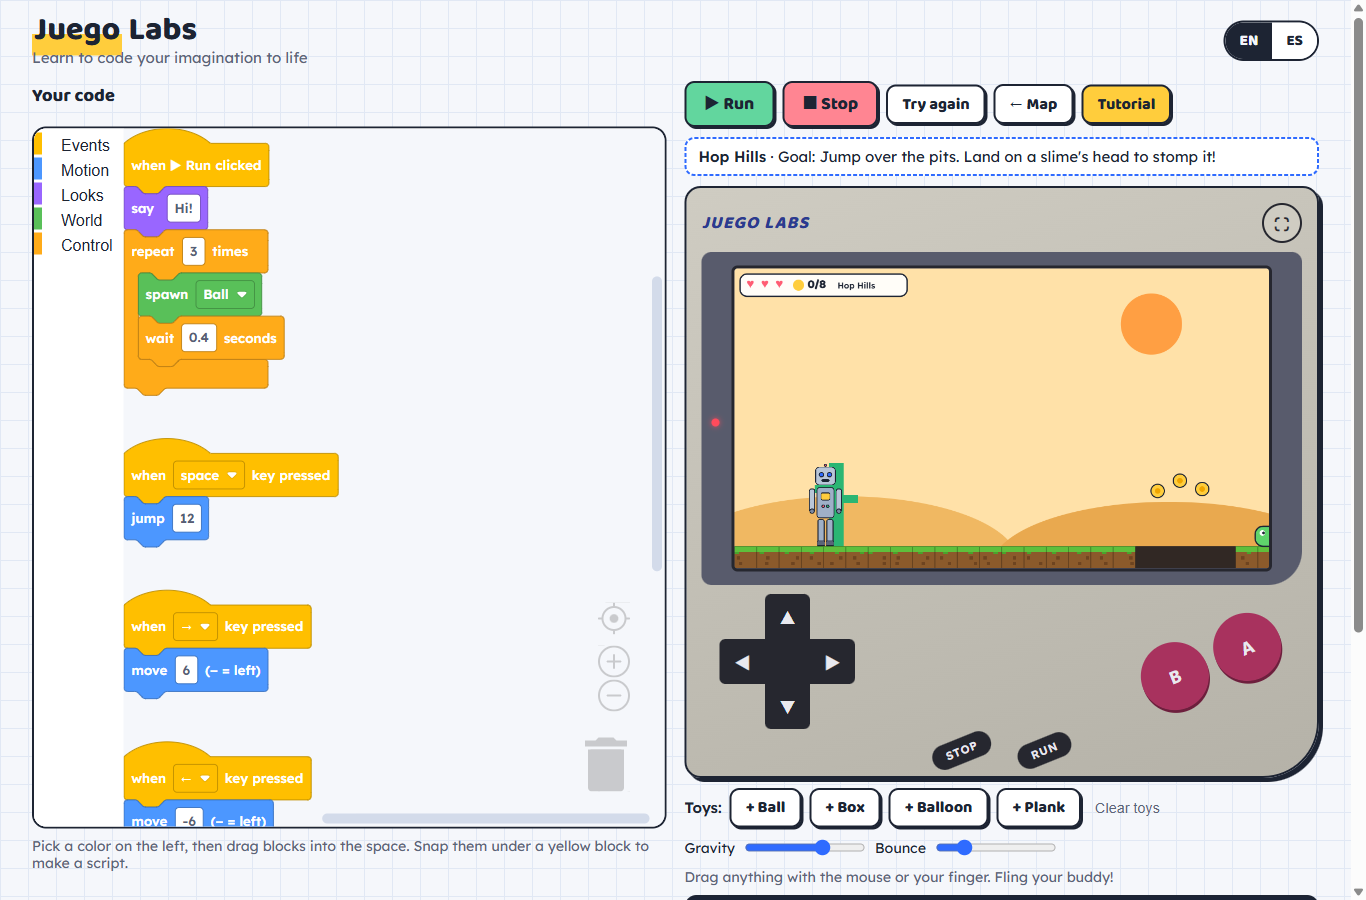
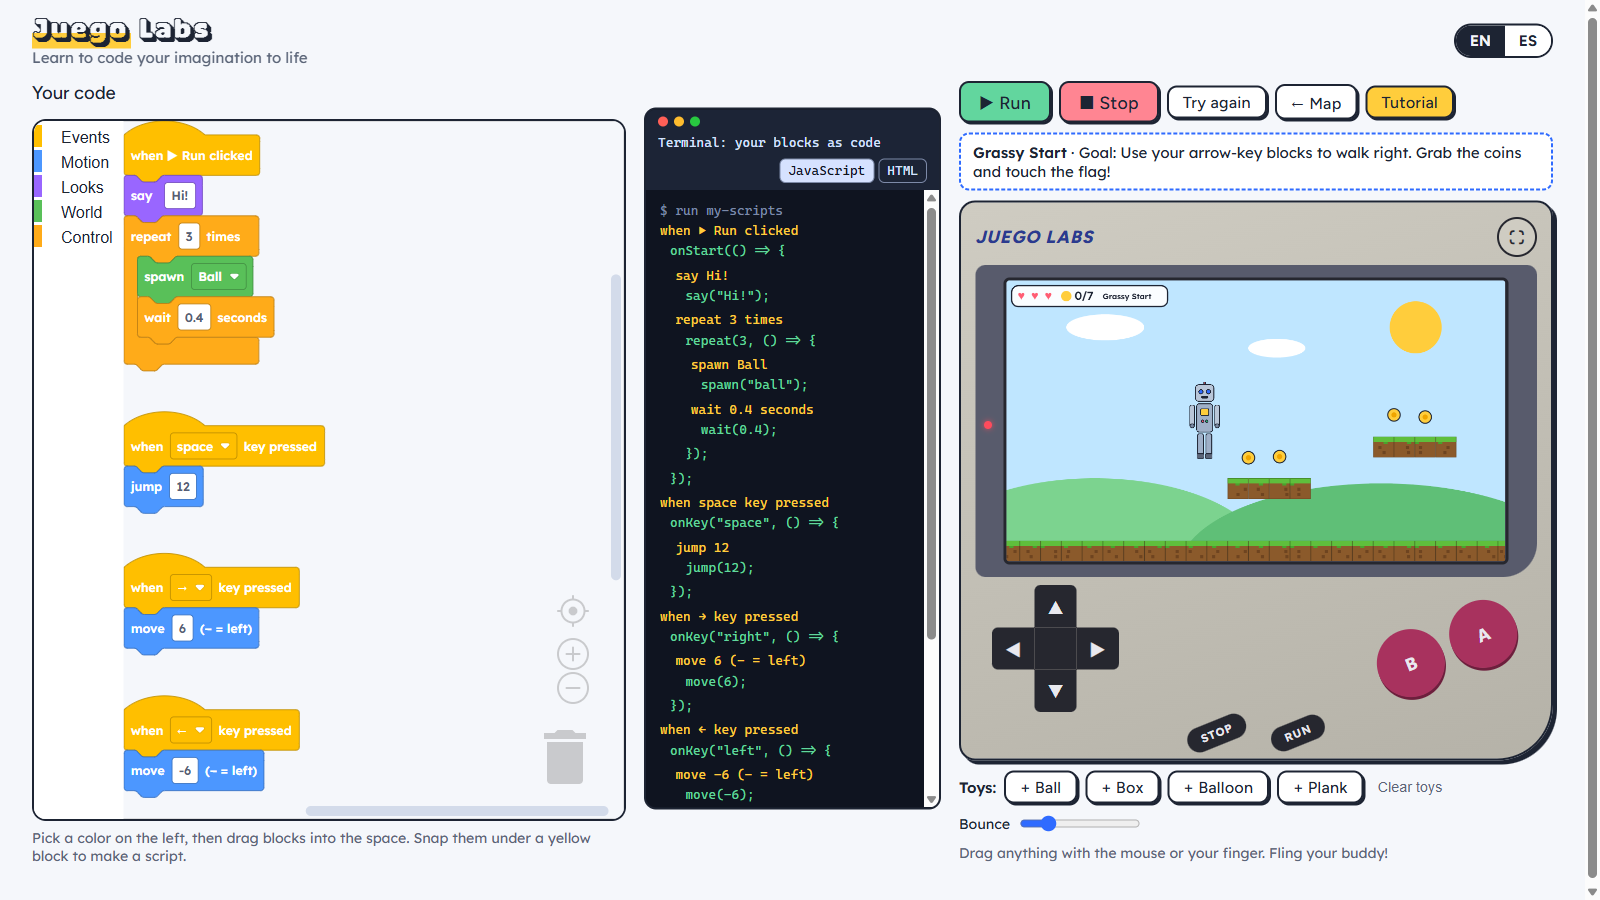
README: problem statement, team and track sections, current fonts and layout; fresh screenshots

diff --git a/README.md b/README.md
@@ -8,10 +8,18 @@
 
 ![Playing a level on the Game Boy, with code blocks on the left](docs/screens/level.png)
 
+## The Problem We're Solving
+
+- Most "learn to code" games hide the code: kids drag blocks but never see the HTML, CSS and JavaScript those blocks stand for.
+- Most of them are English-only, which leaves out Spanish-speaking students and their families.
+- Many need accounts, installs or fast computers, which schools don't always have.
+
+Juego Labs puts the real code right next to the blocks, in English and Spanish, in any browser, with no sign-up.
+
 ## How Juego Labs Works
 
 - **Make your hero.** Pick a robot, cat or astronaut, or draw your own one body part at a time. The game turns your drawing into a puppet that walks, jumps and waves, and always stays on its feet.
-- **Snap code blocks.** Like Scratch: "when space is pressed → jump 12". A terminal under the screen shows each block as real JavaScript or as a real HTML page.
+- **Snap code blocks.** Like Scratch: "when space is pressed → jump 12". A terminal right beside your code shows each block as real JavaScript or as a real HTML page.
 - **Learn on a Game Boy.** "Let's play" puts the 7 How-it-works cards next to the Game Boy. Each card asks for one thing (press Run, jump, switch the terminal to HTML…), checks that you did it, and moves on.
 - **Play on a Game Boy.** The game lives inside a Game Boy with a touch D-pad and A/B buttons. Tap ⛶ to pop it full screen on a tablet or phone; tap ✕ to go back.
 
@@ -39,6 +47,17 @@
 ## Demo video
 
 ▶ **Demo video:** _add the video link here (YouTube, Loom or a file in this repo)_
+
+## Team
+
+| Name | Role |
+|------|------|
+| _Name_ | _Role, e.g. design, code, pitch_ |
+
+## Track and challenges
+
+- **Main track:** _name the Hacklanta track here_
+- **Side challenges:** _list any side challenges, or "none"_
 
 ## For Hacklanta judges
 
@@ -80,7 +99,7 @@ Every push to `main` is tested, built and published to GitHub Pages by `.github/
 | Dialogs | base-ui (accessible popups: focus trapping, Esc, focus return) |
 | Toasts | Sonner |
 | HTML checker | The browser's built-in DOMParser; jsdom for the automated tests |
-| Fonts | Google Fonts (Baloo 2, Lexend) |
+| Fonts | Adobe Fonts (Puffin Arcade) and Google Fonts (Figtree, Lexend) |
 | Hosting | GitHub Pages + GitHub Actions |
 | Design | Figma ([design file](https://www.figma.com/design/en67Sfnugtzp8HmcmZMedS)) |
 | AI assistance | Claude Code (Anthropic) helped write code, tests and design files |
@@ -116,4 +135,4 @@ docs/screens/        screenshots used in this README
 
 The Figma file has every screen in English and Spanish (an "Español (ES)" group), plus components and a 600×600 character-drawing template whose part frames match `PARTS` and `JOINTS` in `src/character.js`. Colors in Figma match the CSS tokens at the top of `src/styles.css`.
 
-The display and button text styles use Puffin Arcade and Circular Std, which are installed on the designer's computer only. Text written by tools uses a stand-in font (Baloo 2 or Lexend), and its layer name ends in `· needs <style name>`: search the layers panel for "needs" and reapply the style.
+Fonts match between Figma and the game: Puffin Arcade Nerf (logo), Puffin Arcade Regular (page titles), Figtree Medium (subheadings and buttons) and Lexend (body text). Puffin Arcade loads from an Adobe Fonts web project; Figtree and Lexend from Google Fonts.
